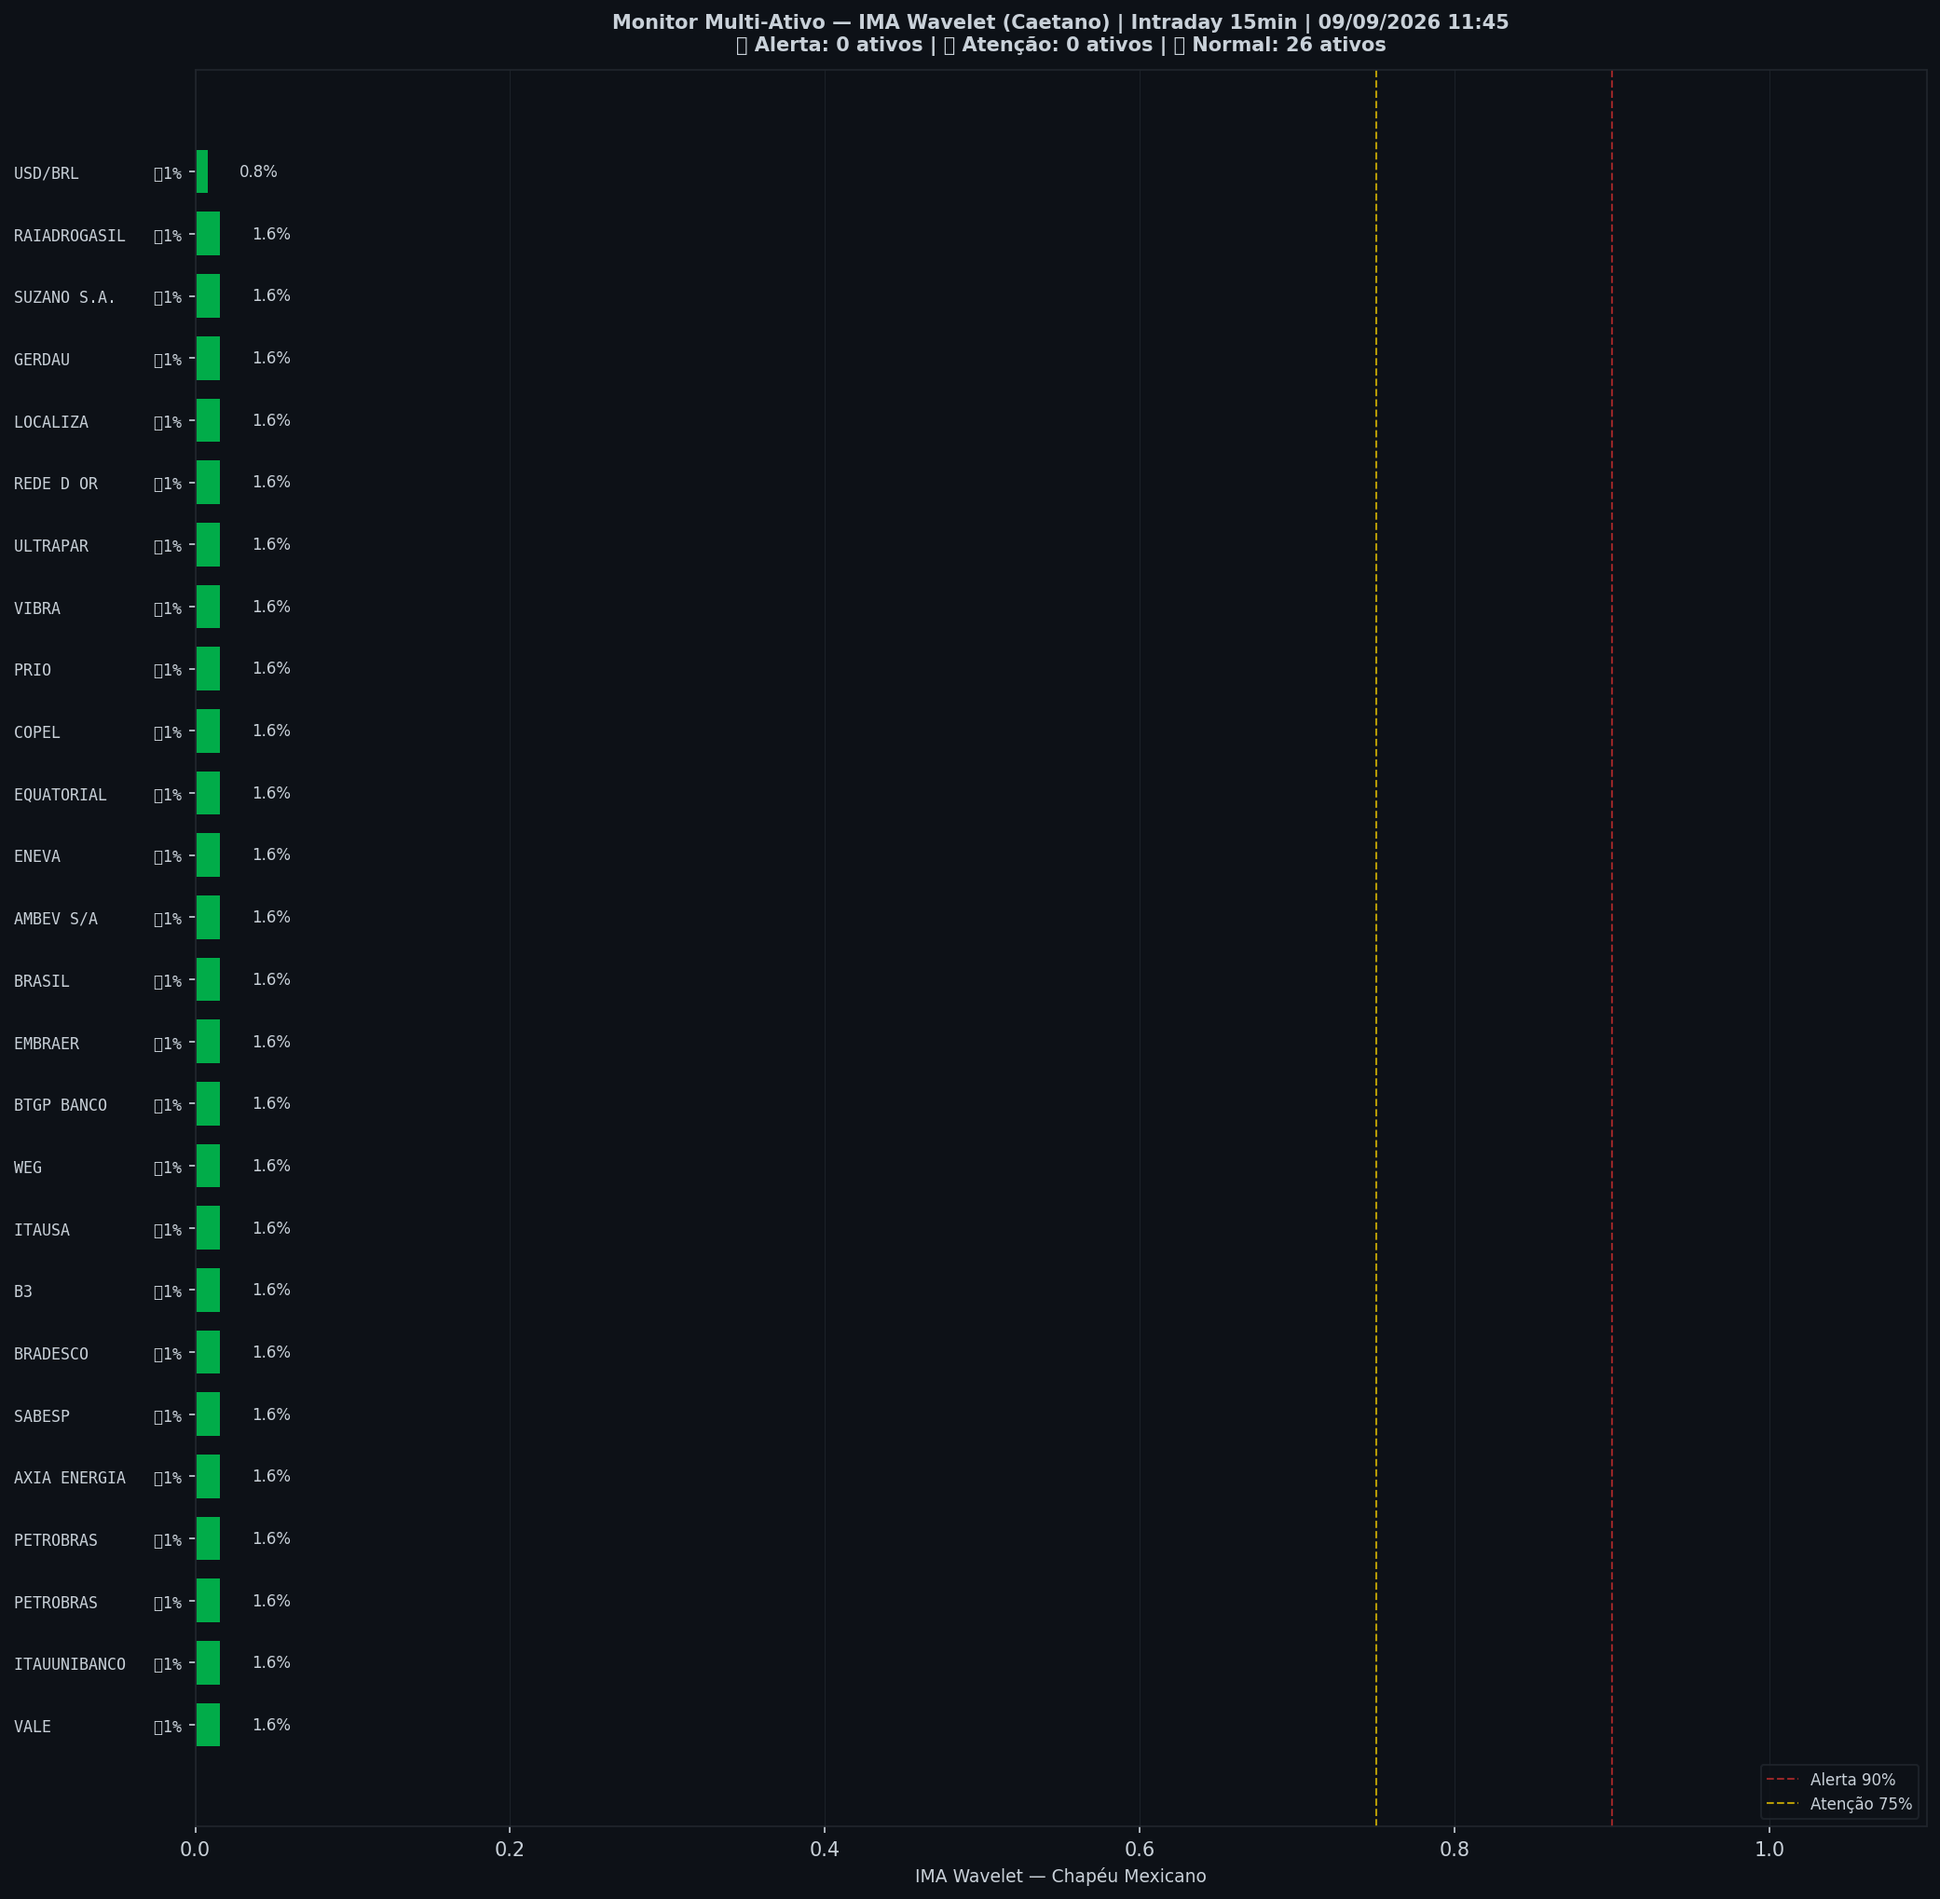
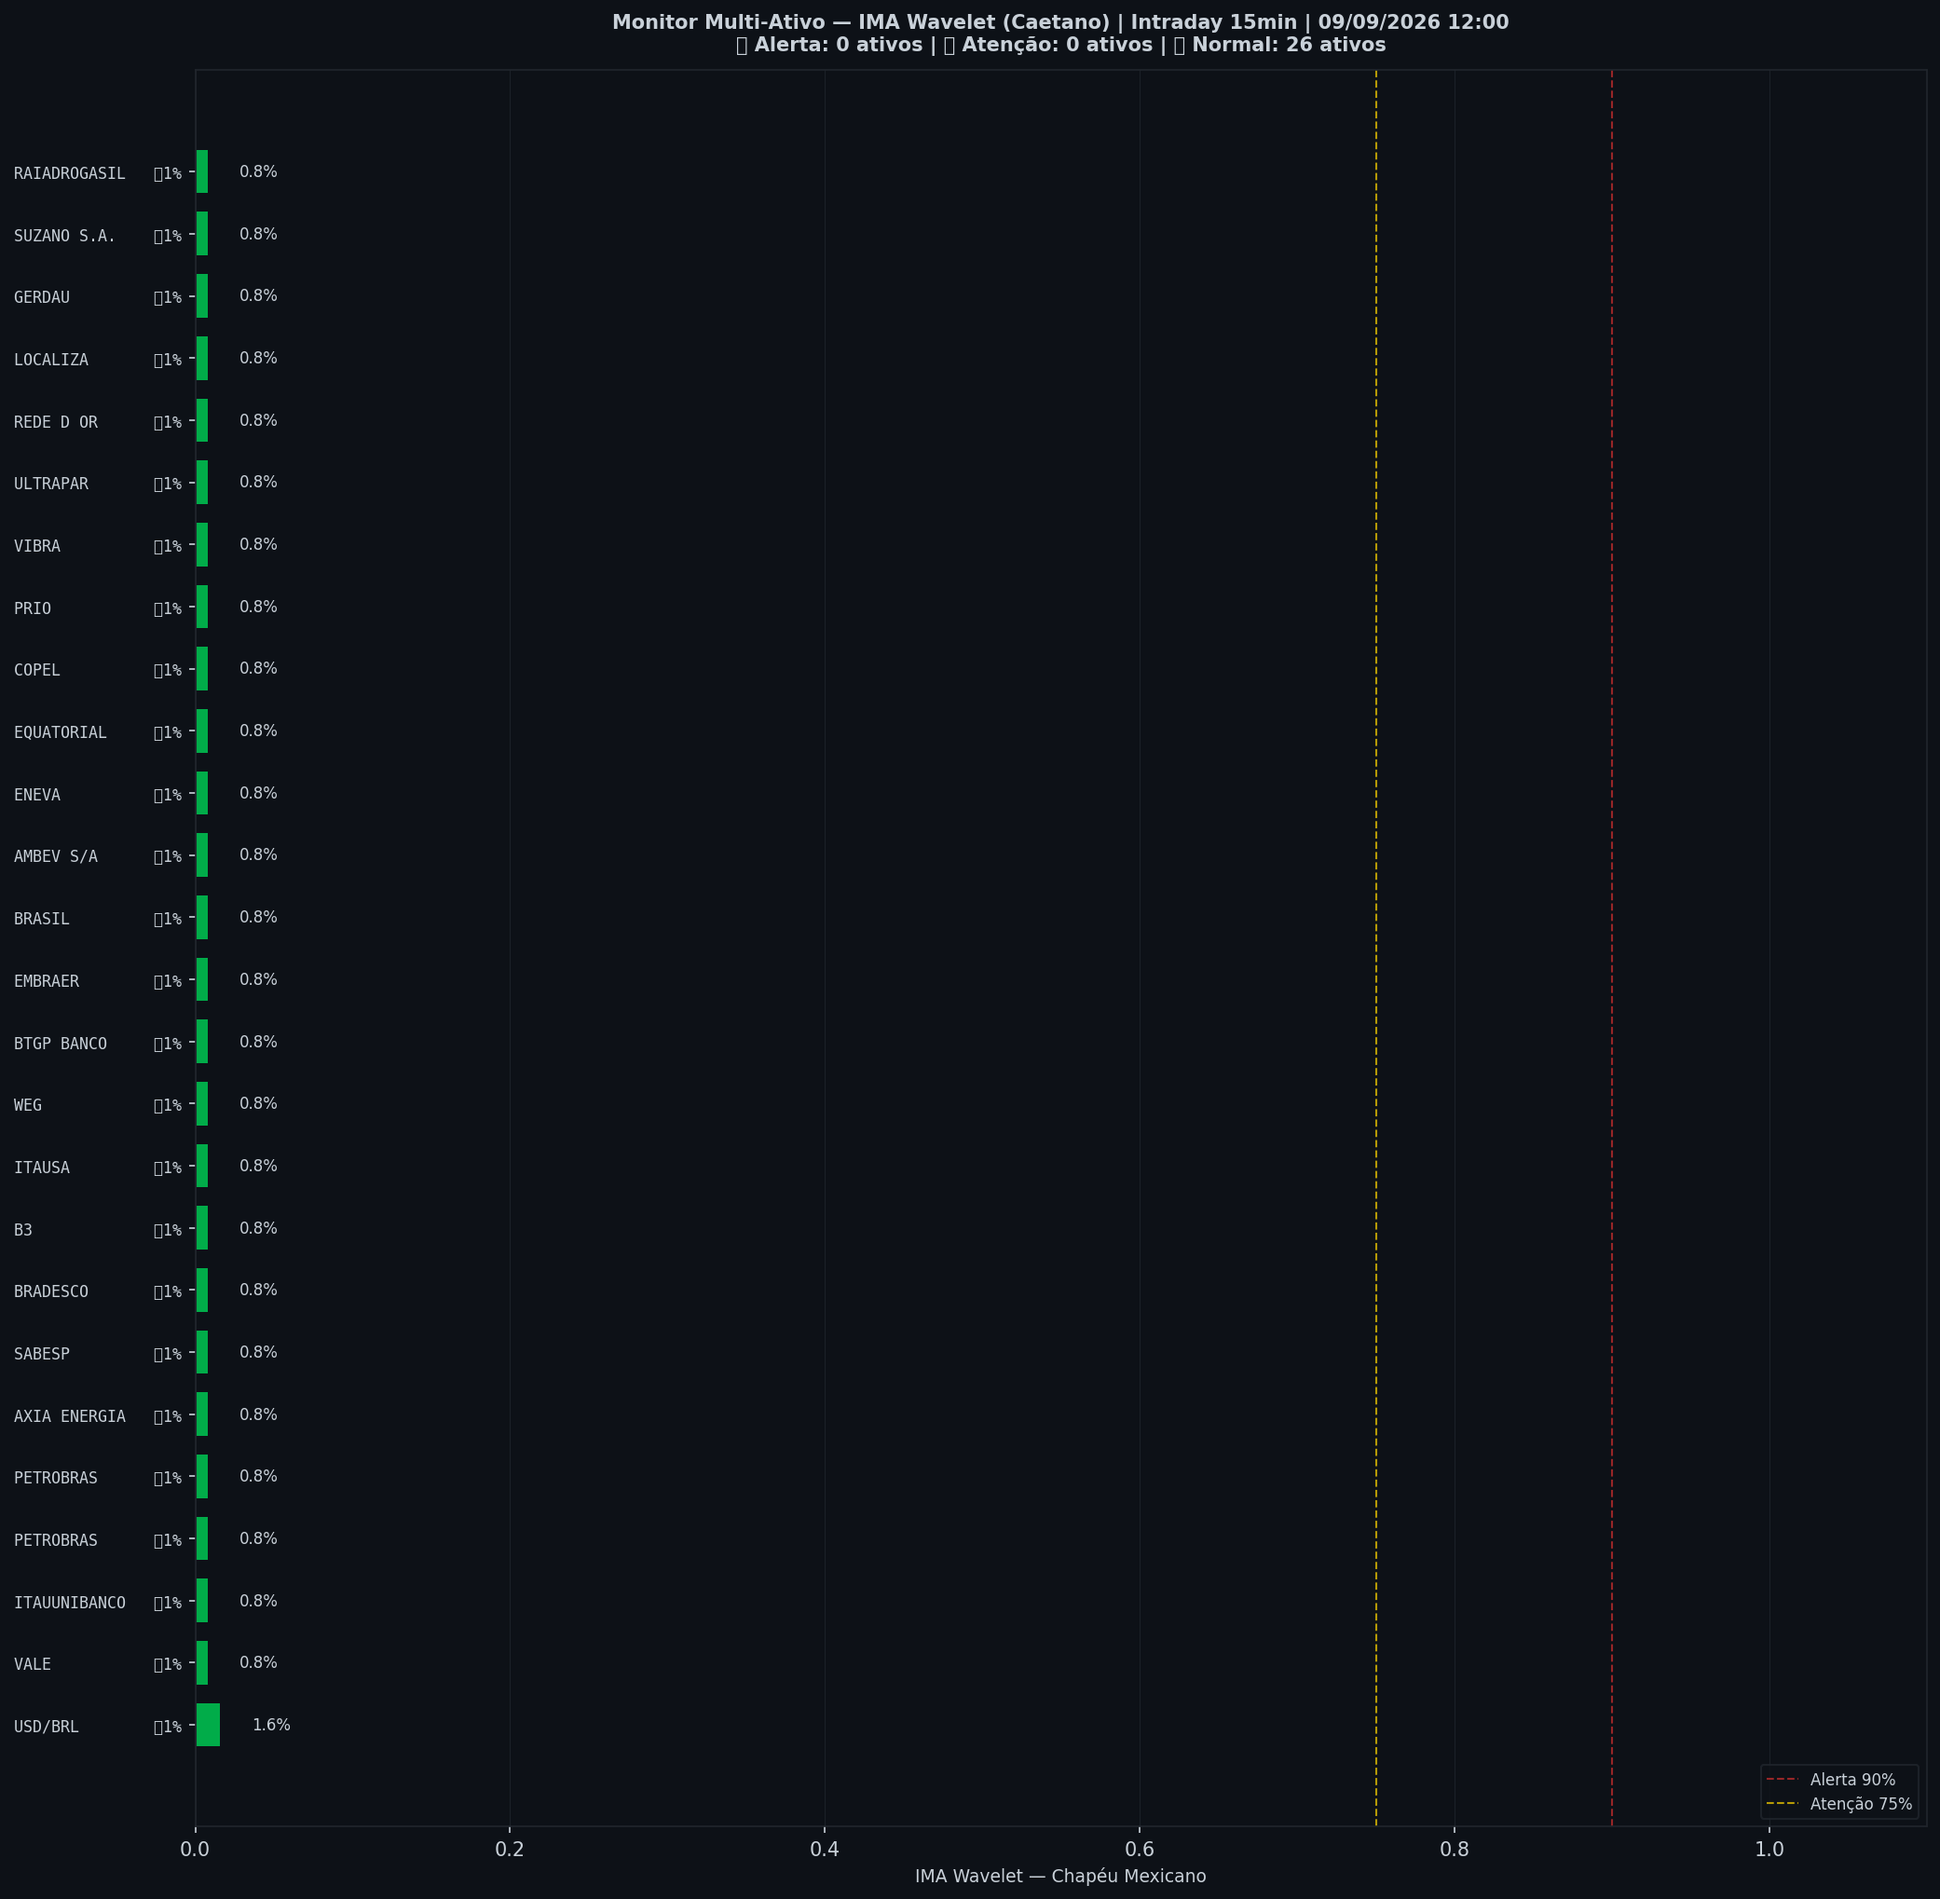
🤖 Auto: Sinal 09/09/2026 12:00

diff --git a/content/intraday/2026-09-09.md b/content/intraday/2026-09-09.md
@@ -1,20 +1,20 @@
 ---
-title: "🟢 Intraday 09/09/2026 11:00 BRT — VERDE"
+title: "🟢 Intraday 09/09/2026 11:15 BRT — VERDE"
 date: 2026-09-09
 tags: [intraday]
 ---
 
-> [!success] 🟢 **VERDE** — Risco 30% · ▼ -5 p.p. vs leitura anterior
-> `██████░░░░░░░░░░░░░░`
+> [!success] 🟢 **VERDE** — Risco 27% · ▼ -4 p.p. vs leitura anterior
+> `█████░░░░░░░░░░░░░░░`
 > Mercado sem sinais relevantes de estresse.
 
 
 | Indicador | Valor |
 |---|---|
-| 🔴 ζ Crash — severidade da queda em curso | **30%** |
-| 🔵 ζ Entrada — estrutura de fundo | 25% |
+| 🔴 ζ Crash — severidade da queda em curso | **27%** |
+| 🔵 ζ Entrada — estrutura de fundo | 36% |
 | 🫧 LPPL DS-Confidence | 0% |
-| 📊 Ibovespa | 186.228 pts |
+| 📊 Ibovespa | 186.061 pts |
 
 ![Gráfico do sinal](../graficos/sinal_intraday.png)
 
@@ -22,6 +22,7 @@ tags: [intraday]
 
 | Data | Zona | Risco | IMA Crash | Entrada | LPPL |
 |---|---|---|---|---|---|
+| 2026-09-09 11:15 | 🟢 VERDE | **27%** | 27% | 36% | 0% |
 | 2026-09-09 11:00 | 🟢 VERDE | **30%** | 30% | 25% | 0% |
 | 2026-09-09 10:45 | 🟢 VERDE | **36%** | 36% | 16% | 0% |
 | 2026-09-09 10:30 | 🟢 VERDE | **40%** | 40% | 11% | 0% |
@@ -51,7 +52,6 @@ tags: [intraday]
 | 2026-09-08 11:30 | 🟢 VERDE | **23%** | 23% | 0% | 0% |
 | 2026-09-08 11:15 | 🟢 VERDE | **20%** | 20% | 0% | 0% |
 | 2026-09-08 11:00 | 🟢 VERDE | **17%** | 17% | 0% | 0% |
-| 2026-09-08 10:45 | 🟢 VERDE | **12%** | 12% | 0% | 0% |
 
 ## Monitor Multi-Ativo
 
@@ -59,36 +59,36 @@ tags: [intraday]
 
 | Zona | Ativo | Setor | IMA Crash | IMA Entrada |
 |---|---|---|---|---|
-| 🟢 | **VALE** | Mineração | 1.6% | 0.8% |
-| 🟢 | **ITAUUNIBANCO** | Financeiro | 1.6% | 0.8% |
-| 🟢 | **PETROBRAS** | Petróleo | 1.6% | 0.8% |
-| 🟢 | **PETROBRAS** | Petróleo | 1.6% | 0.8% |
-| 🟢 | **AXIA ENERGIA** | Energia | 1.6% | 0.8% |
-| 🟢 | **SABESP** | Saneamento | 1.6% | 0.8% |
-| 🟢 | **BRADESCO** | Financeiro | 1.6% | 0.8% |
-| 🟢 | **B3** | Financeiro | 1.6% | 0.8% |
-| 🟢 | **ITAUSA** | Financeiro | 1.6% | 0.8% |
-| 🟢 | **WEG** | Industrial | 1.6% | 0.8% |
-| 🟢 | **BTGP BANCO** | Financeiro | 1.6% | 0.8% |
-| 🟢 | **EMBRAER** | Outros | 1.6% | 0.8% |
-| 🟢 | **BRASIL** | Financeiro | 1.6% | 0.8% |
-| 🟢 | **AMBEV S/A** | Consumo | 1.6% | 0.8% |
-| 🟢 | **ENEVA** | Energia | 1.6% | 0.8% |
-| 🟢 | **EQUATORIAL** | Energia | 1.6% | 0.8% |
-| 🟢 | **COPEL** | Energia | 1.6% | 0.8% |
-| 🟢 | **PRIO** | Petróleo | 1.6% | 0.8% |
-| 🟢 | **VIBRA** | Energia | 1.6% | 0.8% |
-| 🟢 | **ULTRAPAR** | Outros | 1.6% | 0.8% |
-| 🟢 | **REDE D OR** | Saúde | 1.6% | 0.8% |
-| 🟢 | **LOCALIZA** | Aluguel | 1.6% | 0.8% |
-| 🟢 | **GERDAU** | Siderurgia | 1.6% | 0.8% |
-| 🟢 | **SUZANO S.A.** | Papel/Celulose | 1.6% | 0.8% |
-| 🟢 | **RAIADROGASIL** | Outros | 1.6% | 0.8% |
-| 🟢 | **USD/BRL** | Câmbio | 0.8% | 0.8% |
+| 🟢 | **USD/BRL** | Câmbio | 1.6% | 0.8% |
+| 🟢 | **VALE** | Mineração | 0.8% | 0.8% |
+| 🟢 | **ITAUUNIBANCO** | Financeiro | 0.8% | 0.8% |
+| 🟢 | **PETROBRAS** | Petróleo | 0.8% | 0.8% |
+| 🟢 | **PETROBRAS** | Petróleo | 0.8% | 0.8% |
+| 🟢 | **AXIA ENERGIA** | Energia | 0.8% | 0.8% |
+| 🟢 | **SABESP** | Saneamento | 0.8% | 0.8% |
+| 🟢 | **BRADESCO** | Financeiro | 0.8% | 0.8% |
+| 🟢 | **B3** | Financeiro | 0.8% | 0.8% |
+| 🟢 | **ITAUSA** | Financeiro | 0.8% | 0.8% |
+| 🟢 | **WEG** | Industrial | 0.8% | 0.8% |
+| 🟢 | **BTGP BANCO** | Financeiro | 0.8% | 0.8% |
+| 🟢 | **EMBRAER** | Outros | 0.8% | 0.8% |
+| 🟢 | **BRASIL** | Financeiro | 0.8% | 0.8% |
+| 🟢 | **AMBEV S/A** | Consumo | 0.8% | 0.8% |
+| 🟢 | **ENEVA** | Energia | 0.8% | 0.8% |
+| 🟢 | **EQUATORIAL** | Energia | 0.8% | 0.8% |
+| 🟢 | **COPEL** | Energia | 0.8% | 0.8% |
+| 🟢 | **PRIO** | Petróleo | 0.8% | 0.8% |
+| 🟢 | **VIBRA** | Energia | 0.8% | 0.8% |
+| 🟢 | **ULTRAPAR** | Outros | 0.8% | 0.8% |
+| 🟢 | **REDE D OR** | Saúde | 0.8% | 0.8% |
+| 🟢 | **LOCALIZA** | Aluguel | 0.8% | 0.8% |
+| 🟢 | **GERDAU** | Siderurgia | 0.8% | 0.8% |
+| 🟢 | **SUZANO S.A.** | Papel/Celulose | 0.8% | 0.8% |
+| 🟢 | **RAIADROGASIL** | Outros | 0.8% | 0.8% |
 
 ![Monitor multi-ativo](../graficos/multi_intraday.png)
 
-*Página atualizada em 09/09/2026 11:45 BRT (leitura da barra de 2026-09-09 11:00 BRT).*
+*Página atualizada em 09/09/2026 12:00 BRT (leitura da barra de 2026-09-09 11:15 BRT).*
 
 > [!info]- Como interpretar (clique para expandir)
 > - **ζ Crash**: fração dos coeficientes wavelet acima do corte (Caetano & Yoneyama 2009). Escala absoluta: ζ=0,90 = 90% dos coeficientes anômalos — historicamente, quedas com ζ≥0,90 foram mais fundas e mais longas. **Mede a severidade do movimento em curso, não prevê o início da queda.**

diff --git a/content/index.md b/content/index.md
@@ -8,19 +8,19 @@ tags: [home]
 
 Monitoramento diário e intraday do Ibovespa — **IMA Wavelet** (Prof. Marco Antonio Leonel Caetano, ITA/INSPER) + **LPPL DS-Confidence** (Prof. Didier Sornette, ETH-Zurich).
 
-*Última atualização: 09/09/2026 11:45 BRT · ^BVSP · Intraday 15min · v4*
+*Última atualização: 09/09/2026 12:00 BRT · ^BVSP · Intraday 15min · v4*
 
-> [!success] 🟢 **VERDE** — Risco 30% · ▼ -5 p.p. vs leitura anterior
-> `██████░░░░░░░░░░░░░░`
+> [!success] 🟢 **VERDE** — Risco 27% · ▼ -4 p.p. vs leitura anterior
+> `█████░░░░░░░░░░░░░░░`
 > Mercado sem sinais relevantes de estresse.
 
 
 | Indicador | Valor |
 |---|---|
-| 🔴 ζ Crash — severidade da queda em curso | **30%** |
-| 🔵 ζ Entrada — estrutura de fundo | 25% |
+| 🔴 ζ Crash — severidade da queda em curso | **27%** |
+| 🔵 ζ Entrada — estrutura de fundo | 36% |
 | 🫧 LPPL DS-Confidence | 0% |
-| 📊 Ibovespa | 186.228 pts |
+| 📊 Ibovespa | 186.061 pts |
 
 **Multi-ativo:** 0% em tensão (0🔴 0🟡 de 26 ativos)
 
@@ -32,7 +32,7 @@ Monitoramento diário e intraday do Ibovespa — **IMA Wavelet** (Prof. Marco An
 
 | Data | Zona | Risco | IMA | LPPL |
 |---|---|---|---|---|
-| [09 Sep 2026](diario/2026-09-09) | 🟢 VERDE | **30%** | 30% | 0% |
+| [09 Sep 2026](diario/2026-09-09) | 🟢 VERDE | **27%** | 27% | 0% |
 | [08 Sep 2026](diario/2026-09-08) | 🟡 AMARELO | **49%** | 49% | 0% |
 
 ## Navegação

diff --git a/content/historico.md b/content/historico.md
@@ -7,6 +7,7 @@ tags: [historico]
 
 | Data | Modo | Zona | Risco | IMA | LPPL |
 |---|---|---|---|---|---|
+| 2026-09-09 11:15 | intraday | 🟢 VERDE | 27% | 27% | 0% |
 | 2026-09-09 11:00 | intraday | 🟢 VERDE | 30% | 30% | 0% |
 | 2026-09-09 10:45 | intraday | 🟢 VERDE | 36% | 36% | 0% |
 | 2026-09-09 10:30 | intraday | 🟢 VERDE | 40% | 40% | 0% |
